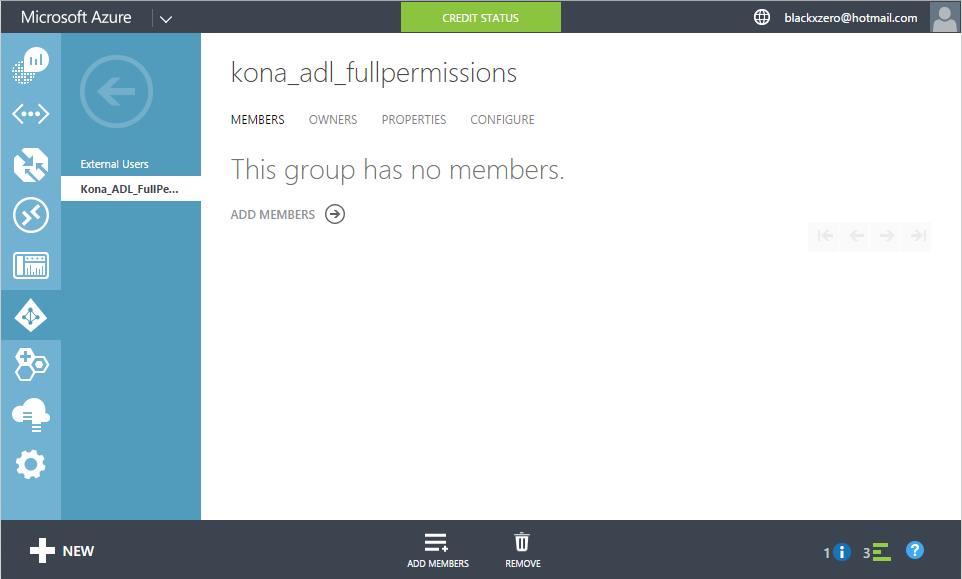
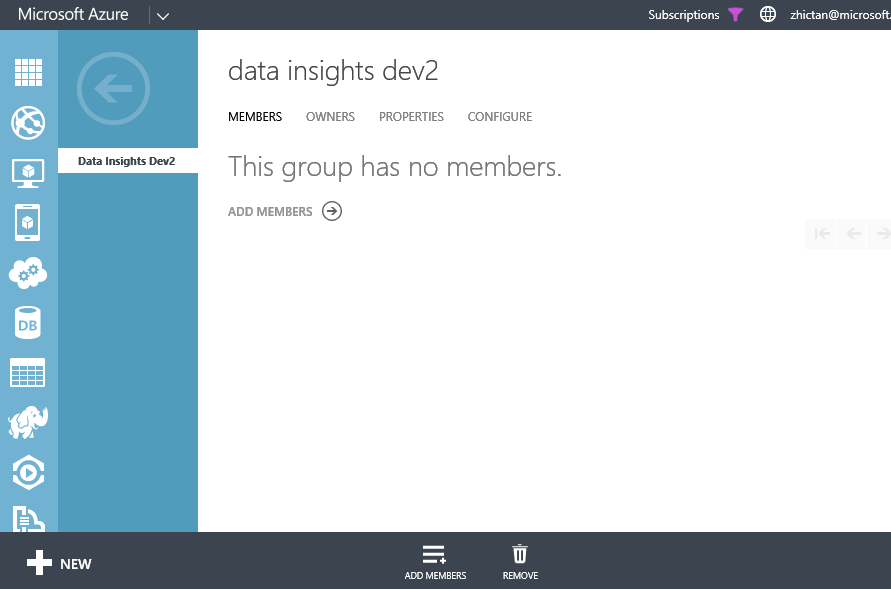
Updated Security Doc

Changed region(s): [[0.0, 0.0, 1.0, 0.9948], [0.8485, 0.9326, 0.9697, 0.9637], [0.0303, 0.9326, 0.1212, 0.9637]]

diff --git a/docs/General/Security Best Practices.md b/docs/General/Security Best Practices.md
@@ -1,14 +1,14 @@
-#Securing Kona and Azure Data Lake Best Practices
+##Managing Azure Data Lake Users##
+For Azure Data Lake, we're leveraging 2 components to secure access:
 
-##Managing Users##
-With the new accounts, we will be leveraging a combination of the [Azure RBAC](https://azure.microsoft.com/en-us/documentation/articles/role-based-access-control-configure/) and Filesystem ACLs to manage access.
+1) Portal and Management operations are controlled by [Azure RBAC](https://azure.microsoft.com/en-us/documentation/articles/role-based-access-control-configure/).
 
-Since we separated Kona and Data Lake, the access permissions for these services are managed separately. To manage access to both services using one interface, we recommend using security groups.
+2) File System and Data operations are controlled by ACLs set on the Azure Data Lake. 
 
-We will walk you through how to create a security group and using it to control access to both Kona and Azure Data Lake. Once we've added the security group, we can control access just by simply adding/removing users to the group.
+We will walk you through how to create a security group and use it to control access to both the Portal and Filesystem. Once you've added the security group, you can control access just by simply adding/removing users to the group.
 
 ###Setting Up Security Groups in AAD###
-We recommend these steps to simplify access management:
+If you don't already have a Security Group that you can use, you can setup a new one by following these steps:
 
 1) Navigate to your Azure Active Directory and Select it
  
@@ -32,14 +32,12 @@ We recommend these steps to simplify access management:
 
 6) Add users to this group using the "Add User" command at the bottom of the screen
 
-###Managing Users for Kona###
-For Kona, we're leveraging [Azure RBAC](https://azure.microsoft.com/en-us/documentation/articles/role-based-access-control-configure/). You can refer to the guide for more information but the basic steps are:
-
-1) Open the Kona service
+###1. Managing Users for the Portal/Management Operations###
+1) Open the Azure Data Lake service
 
 2) Click on the User icon in the Essentials Bar
 
-![](../img/Migration/AzureRbacResource.png)
+![](../img/Migration/AzureRbacResource2.png)
 
 3) Click on the Add icon in the top command bar
 
@@ -55,30 +53,26 @@ For Kona, we're leveraging [Azure RBAC](https://azure.microsoft.com/en-us/docume
 
 6) Click Select
 
-7) Now this group has access to the Kona Service
+7) Now this group has access to use the Portal and do management operations
 
-###Managing Users for Azure Data Lake###
-For Azure Data Lake, we're leveraging 2 components to secure access:
-1) Portal and Management operations are controlled by [Azure RBAC](https://azure.microsoft.com/en-us/documentation/articles/role-based-access-control-configure/).
-Follow the same steps above but in the context of an Azure Data Lake service to enable access.
+###Managing Users for the File System###
+At the moment we need to help you add the Group to the Data Lake access control list (in the future this can be done in the API/PS/UI). We need the Object ID of the group to do this.
 
-2) File System and Data operations are controlled by ACLs set on the Azure Data Lake. At the moment we need to help you add the Group to the Data Lake access control list (in the future this can be done in the API/PS/UI). We need the Object ID of the group to do this.
+To get the Object ID:
 
-    To get the Object ID:
-
-    1) Click on the Group to see the Details of the Group
+1) Click on the Group to see the Details of the Group
 
 ![](../img/Migration/AADGroupDetails.png)
 
-    2) Click on Properties and copy the Object ID
+2) Click on Properties and copy the Object ID
 
 ![](../img/Migration/AADGroupProperties.png)
 
-    3) Send us the following information to konaonboard@microsoft.com:
-    + Subscription ID
-    + Data Lake Account Name
-    + Object ID
-    + [Any additional information for Data Migration (see above)]
+3) Send us the following information to konaonboard@microsoft.com:
+- Subscription ID
+- Data Lake Account Name
+- Object ID
+- [Any additional information for Data Migration (see above)]
 
 ###Adding/Removing Users###
-Now that the same security group has been added to both Kona and Azure Data Lake, you can simply add/remove users to the security group to manage access.
+Now that the same security group has been added to both the Portal and the file system, you can simply add/remove users to the security group to manage access.
